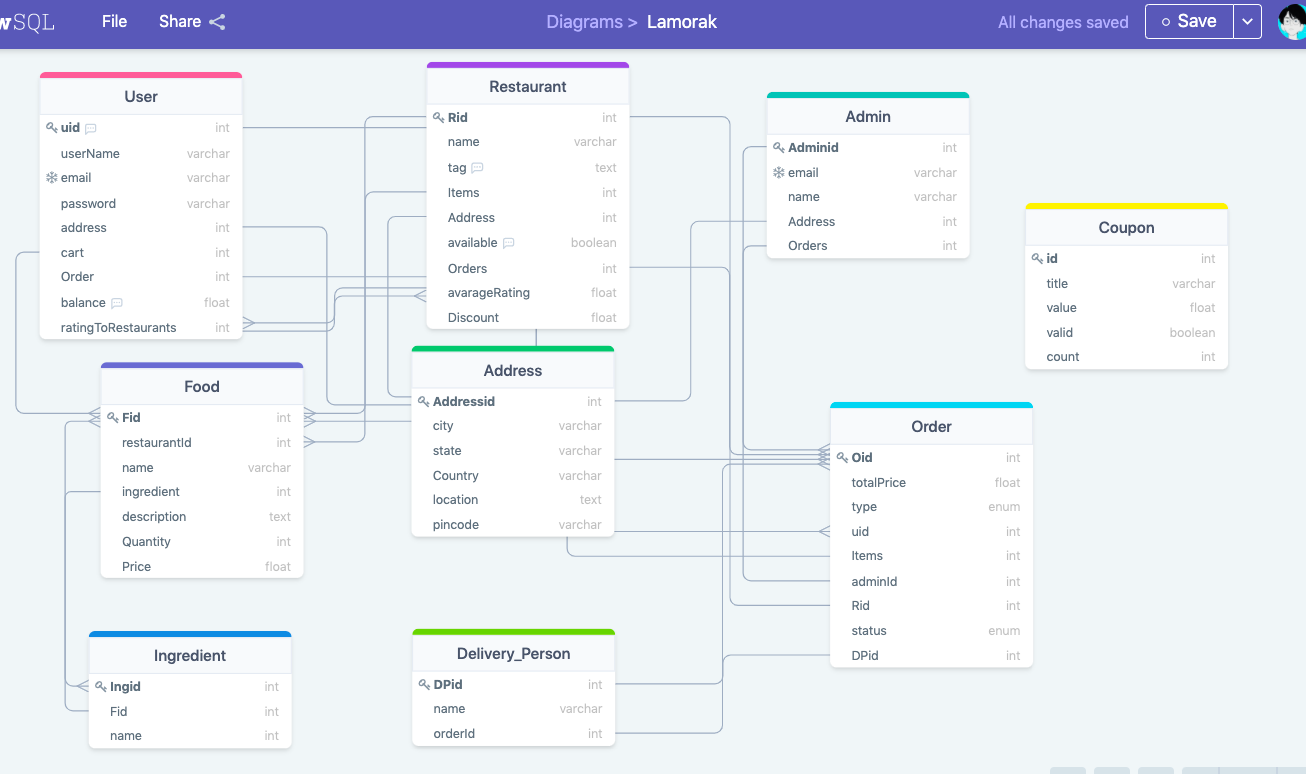
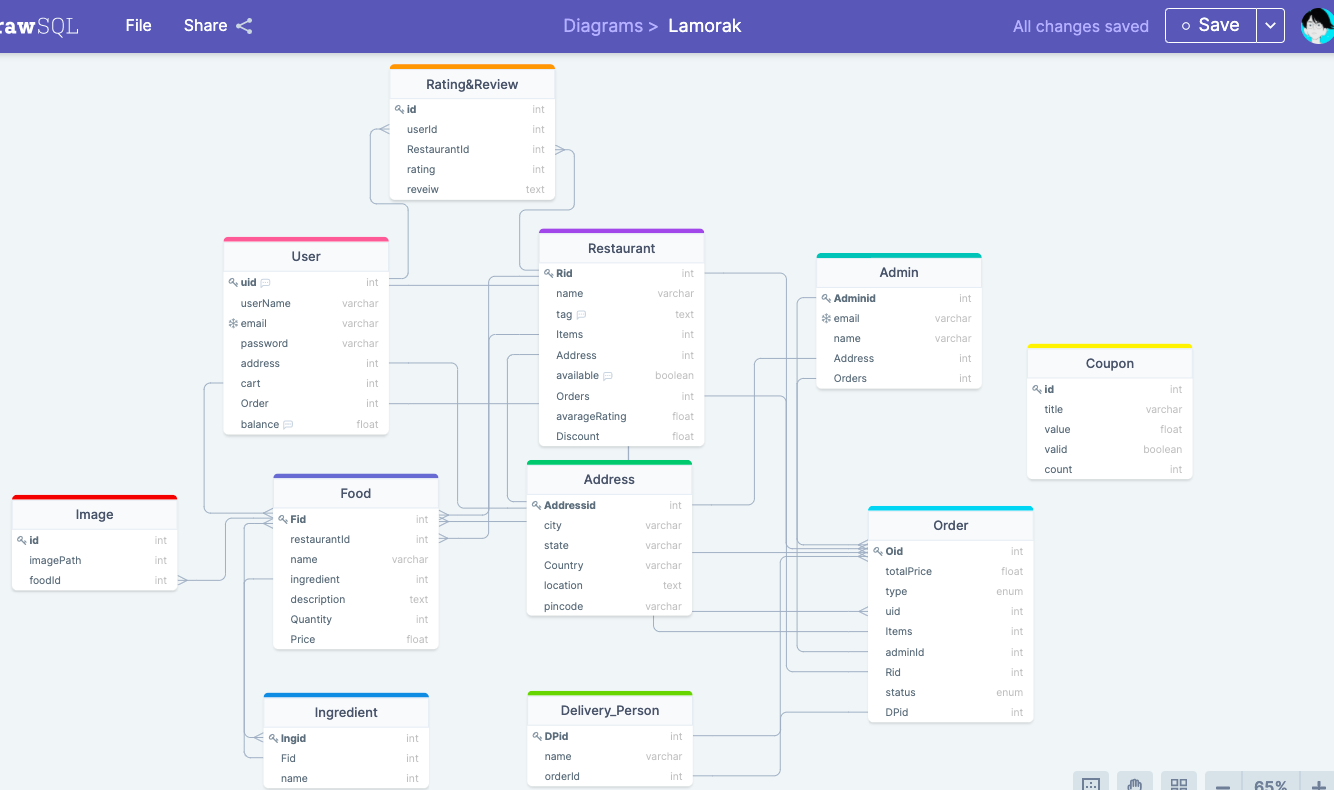
:package: Dish images & reviews

diff --git a/src/migration/1623419280160-finalDB.ts b/src/migration/1623419280160-finalDB.ts
@@ -1,15 +1,16 @@
 import {MigrationInterface, QueryRunner} from "typeorm";
 
-export class DBRatingDiscount1623325314182 implements MigrationInterface {
-    name = 'DBRatingDiscount1623325314182'
+export class finalDB1623419280160 implements MigrationInterface {
+    name = 'finalDB1623419280160'
 
     public async up(queryRunner: QueryRunner): Promise<void> {
         await queryRunner.query("CREATE TABLE `address` (`Addressid` varchar(36) NOT NULL, `city` text NOT NULL, `state` text NOT NULL, `Country` text NOT NULL, `location` text NOT NULL, `pincode` text NOT NULL, `phone` varchar(9) NULL, PRIMARY KEY (`Addressid`)) ENGINE=InnoDB");
         await queryRunner.query("CREATE TABLE `delivery__person` (`DPid` varchar(36) NOT NULL, `name` text NOT NULL, `available` tinyint NOT NULL DEFAULT 1, `addressAddressid` varchar(36) NULL, UNIQUE INDEX `REL_d65d42e963f8429d86825db38a` (`addressAddressid`), PRIMARY KEY (`DPid`)) ENGINE=InnoDB");
         await queryRunner.query("CREATE TABLE `ingredient` (`Ingid` varchar(36) NOT NULL, `name` text NOT NULL, PRIMARY KEY (`Ingid`)) ENGINE=InnoDB");
         await queryRunner.query("CREATE TABLE `food_ingredient` (`FoodId` varchar(255) NOT NULL, `IngredientId` varchar(255) NOT NULL, PRIMARY KEY (`FoodId`, `IngredientId`)) ENGINE=InnoDB");
+        await queryRunner.query("CREATE TABLE `image` (`id` varchar(36) NOT NULL, `imagePath` text NOT NULL, `foodId` varchar(255) NOT NULL, PRIMARY KEY (`id`)) ENGINE=InnoDB");
         await queryRunner.query("CREATE TABLE `user` (`uid` varchar(36) NOT NULL, `email` varchar(150) NOT NULL, `userName` text NOT NULL, `password` text NOT NULL, `balance` int NOT NULL DEFAULT '0', `addressAddressid` varchar(36) NULL, UNIQUE INDEX `IDX_e12875dfb3b1d92d7d7c5377e2` (`email`), UNIQUE INDEX `REL_703e68a3d29a874f160ac3797b` (`addressAddressid`), PRIMARY KEY (`uid`)) ENGINE=InnoDB");
-        await queryRunner.query("CREATE TABLE `rating` (`userId` varchar(255) NOT NULL, `RestaurantId` varchar(255) NOT NULL, `rating` float NOT NULL DEFAULT '0', PRIMARY KEY (`userId`, `RestaurantId`)) ENGINE=InnoDB");
+        await queryRunner.query("CREATE TABLE `rating` (`userId` varchar(255) NOT NULL, `RestaurantId` varchar(255) NOT NULL, `rating` float NOT NULL DEFAULT '0', `review` text NULL, PRIMARY KEY (`userId`, `RestaurantId`)) ENGINE=InnoDB");
         await queryRunner.query("CREATE TABLE `restaurant` (`Rid` varchar(36) NOT NULL, `name` text NOT NULL, `tag` text NOT NULL, `available` tinyint NOT NULL DEFAULT 1, `discount` float NULL, `totalRating` float NOT NULL DEFAULT '0', `addressAddressid` varchar(36) NULL, UNIQUE INDEX `REL_4642c5775e0de2541be48c84c8` (`addressAddressid`), PRIMARY KEY (`Rid`)) ENGINE=InnoDB");
         await queryRunner.query("CREATE TABLE `food` (`Fid` varchar(36) NOT NULL, `name` text NOT NULL, `description` text NOT NULL, `quantity` int NOT NULL DEFAULT '1', `price` float NOT NULL, `available` tinyint NOT NULL DEFAULT 1, `restaurantId` varchar(255) NOT NULL, `userId` varchar(255) NULL, `orderOid` int NULL, PRIMARY KEY (`Fid`)) ENGINE=InnoDB");
         await queryRunner.query("CREATE TABLE `order` (`Oid` int NOT NULL AUTO_INCREMENT, `totalPrice` float NOT NULL DEFAULT '0', `type` enum ('COD', 'NET_BANKING') NOT NULL DEFAULT 'COD', `status` enum ('PLACED', 'PAYED', 'ON_TRANSPORT', 'DELIVERED', 'CANCELLED') NOT NULL DEFAULT 'PLACED', `uid` varchar(255) NOT NULL, `adminId` varchar(255) NOT NULL, `DPId` varchar(255) NOT NULL, PRIMARY KEY (`Oid`)) ENGINE=InnoDB");
@@ -26,10 +27,12 @@ export class DBRatingDiscount1623325314182 implements MigrationInterface {
         await queryRunner.query("ALTER TABLE `Lamorak`.`rating` DROP FOREIGN KEY `ratingRestaurant`");
         await queryRunner.query("ALTER TABLE `Lamorak`.`food` DROP FOREIGN KEY `FK_35d14f4d6fd4c47ae086fad66f4`");
         await queryRunner.query("ALTER TABLE `Lamorak`.`food_ingredient` DROP FOREIGN KEY `FK_b2786654cafd09256c540749b9a`");
+        await queryRunner.query("ALTER TABLE `Lamorak`.`image` DROP FOREIGN KEY `ImageForFood`");
         await queryRunner.query("ALTER TABLE `Lamorak`.`order` DROP FOREIGN KEY `FK_e1e13450f9c5ff21e855254ac9a`");
         await queryRunner.query("ALTER TABLE `delivery__person` ADD CONSTRAINT `FK_d65d42e963f8429d86825db38a1` FOREIGN KEY (`addressAddressid`) REFERENCES `address`(`Addressid`) ON DELETE NO ACTION ON UPDATE NO ACTION");
         await queryRunner.query("ALTER TABLE `food_ingredient` ADD CONSTRAINT `FK_b2786654cafd09256c540749b9a` FOREIGN KEY (`FoodId`) REFERENCES `food`(`Fid`) ON DELETE NO ACTION ON UPDATE NO ACTION");
         await queryRunner.query("ALTER TABLE `food_ingredient` ADD CONSTRAINT `FK_b335b1a8e5221d9f0d79dae5f42` FOREIGN KEY (`IngredientId`) REFERENCES `ingredient`(`Ingid`) ON DELETE NO ACTION ON UPDATE NO ACTION");
+        await queryRunner.query("ALTER TABLE `image` ADD CONSTRAINT `FK_9dd0f874c4419189390ab2da55a` FOREIGN KEY (`foodId`) REFERENCES `food`(`Fid`) ON DELETE NO ACTION ON UPDATE NO ACTION");
         await queryRunner.query("ALTER TABLE `user` ADD CONSTRAINT `FK_703e68a3d29a874f160ac3797be` FOREIGN KEY (`addressAddressid`) REFERENCES `address`(`Addressid`) ON DELETE NO ACTION ON UPDATE NO ACTION");
         await queryRunner.query("ALTER TABLE `rating` ADD CONSTRAINT `FK_a6c53dfc89ba3188b389ef29a62` FOREIGN KEY (`userId`) REFERENCES `user`(`uid`) ON DELETE NO ACTION ON UPDATE NO ACTION");
         await queryRunner.query("ALTER TABLE `rating` ADD CONSTRAINT `FK_99bc6c32c7a46ee3e0bab8da24d` FOREIGN KEY (`RestaurantId`) REFERENCES `restaurant`(`Rid`) ON DELETE NO ACTION ON UPDATE NO ACTION");
@@ -55,10 +58,12 @@ export class DBRatingDiscount1623325314182 implements MigrationInterface {
         await queryRunner.query("ALTER TABLE `rating` DROP FOREIGN KEY `FK_99bc6c32c7a46ee3e0bab8da24d`");
         await queryRunner.query("ALTER TABLE `rating` DROP FOREIGN KEY `FK_a6c53dfc89ba3188b389ef29a62`");
         await queryRunner.query("ALTER TABLE `user` DROP FOREIGN KEY `FK_703e68a3d29a874f160ac3797be`");
+        await queryRunner.query("ALTER TABLE `image` DROP FOREIGN KEY `FK_9dd0f874c4419189390ab2da55a`");
         await queryRunner.query("ALTER TABLE `food_ingredient` DROP FOREIGN KEY `FK_b335b1a8e5221d9f0d79dae5f42`");
         await queryRunner.query("ALTER TABLE `food_ingredient` DROP FOREIGN KEY `FK_b2786654cafd09256c540749b9a`");
         await queryRunner.query("ALTER TABLE `delivery__person` DROP FOREIGN KEY `FK_d65d42e963f8429d86825db38a1`");
         await queryRunner.query("ALTER TABLE `Lamorak`.`order` ADD CONSTRAINT `FK_e1e13450f9c5ff21e855254ac9a` FOREIGN KEY (`adminId`) REFERENCES `admin`(`Adminid`) ON DELETE NO ACTION ON UPDATE NO ACTION");
+        await queryRunner.query("ALTER TABLE `Lamorak`.`image` ADD CONSTRAINT `ImageForFood` FOREIGN KEY (`foodId`) REFERENCES `food`(`Fid`) ON DELETE RESTRICT ON UPDATE RESTRICT");
         await queryRunner.query("ALTER TABLE `Lamorak`.`food_ingredient` ADD CONSTRAINT `FK_b2786654cafd09256c540749b9a` FOREIGN KEY (`FoodId`) REFERENCES `food`(`Fid`) ON DELETE NO ACTION ON UPDATE NO ACTION");
         await queryRunner.query("ALTER TABLE `Lamorak`.`food` ADD CONSTRAINT `FK_35d14f4d6fd4c47ae086fad66f4` FOREIGN KEY (`restaurantRid`) REFERENCES `restaurant`(`Rid`) ON DELETE NO ACTION ON UPDATE NO ACTION");
         await queryRunner.query("ALTER TABLE `Lamorak`.`rating` ADD CONSTRAINT `ratingRestaurant` FOREIGN KEY (`RestaurantId`) REFERENCES `restaurant`(`Rid`) ON DELETE RESTRICT ON UPDATE RESTRICT");
@@ -83,6 +88,7 @@ export class DBRatingDiscount1623325314182 implements MigrationInterface {
         await queryRunner.query("DROP INDEX `REL_703e68a3d29a874f160ac3797b` ON `user`");
         await queryRunner.query("DROP INDEX `IDX_e12875dfb3b1d92d7d7c5377e2` ON `user`");
         await queryRunner.query("DROP TABLE `user`");
+        await queryRunner.query("DROP TABLE `image`");
         await queryRunner.query("DROP TABLE `food_ingredient`");
         await queryRunner.query("DROP TABLE `ingredient`");
         await queryRunner.query("DROP INDEX `REL_d65d42e963f8429d86825db38a` ON `delivery__person`");

diff --git a/src/controllers/admin.controllers.ts b/src/controllers/admin.controllers.ts
@@ -17,10 +17,15 @@ import {
 import { queryAllFoodsAlongWithIngredients } from "../ControllerUtils/FoodIngredientUtils";
 import { makeItemsChange } from "../ControllerUtils/FoodUtils";
 import { Order, OrderStatus } from "../entities/Order";
-import { ControlOrder, ViewOrderAssigned } from "../ControllerUtils/adminUtils";
+import {
+  ControlOrder,
+  uploadImagesForFood,
+  ViewOrderAssigned,
+} from "../ControllerUtils/adminUtils";
 import { Delivery_Person } from "../entities/Delivery_Person";
 import { Coupon } from "../entities/Coupon";
 import { updateCoupon } from "../ControllerUtils/couponUtils";
+import { Image } from "../entities/Image";
 
 const signToken = (id: string) => {
   return JWT.sign(
@@ -129,7 +134,7 @@ export default {
         res.status(200).json({ address, restaurant });
       });
   },
-  addDish: async (req: Request, res: Response) => {
+  addDish: async (req: any, res: Response) => {
     const { restaurantId } = req.params;
 
     const {
@@ -144,27 +149,40 @@ export default {
       price: number;
     } = req.body;
 
-    const restaurant = await Restaurant.findOne(restaurantId);
+    try {
+      const restaurant = await Restaurant.findOne(restaurantId);
 
-    if (restaurant) {
-      const food = await Food.create({
-        name,
-        description,
-        quantity,
-        price,
-        restaurantId,
-        IngredientConnection: [],
-        userId: null,
-        orderOid: null,
-      }).save();
-      // food.restaurant = restaurant
-      // await food.save()
+      if (restaurant) {
+        const food = await Food.create({
+          name,
+          description,
+          quantity,
+          price,
+          restaurantId,
+          // IngredientConnection: [],
+          userId: null,
+          orderOid: null,
+          // images
+        }).save();
+        // food.restaurant = restaurant
+        // await food.save()
 
-      food.restaurant = restaurant;
+        let images: Image[] = [];
+        if (req.files) {
+          images = await uploadImagesForFood(req, food);
+        }
 
-      res.status(200).json({ food, restaurant });
-    } else {
-      res.status(500).json({ msg: "Internal Server Error" });
+        food.restaurant = restaurant;
+        await food.save();
+
+        res.status(200).json({ food, restaurant, images });
+      } else {
+        res.status(500).json({ msg: "Internal Server Error" });
+      }
+    } catch (err) {
+      res
+        .status(200)
+        .json({ msg: "Either food is inserted or some error occured" });
     }
   },
   addIngredient: async (req: Request, res: Response) => {

diff --git a/src/ControllerUtils/adminUtils.ts b/src/ControllerUtils/adminUtils.ts
@@ -1,5 +1,84 @@
 import { getRepository } from "typeorm";
 import { Order, OrderStatus } from "../entities/Order";
+import fs from "fs";
+import { Image } from "../entities/Image";
+import { Food } from "../entities/Food";
+const uploadPath = "/uploads/dishes";
+import path from "path";
+
+export const uploadImagesForFood = async (req: any, food: Food) => {
+  let images: Image[] = [];
+  let fileName = new Date().getTime();
+  const files = req.files;
+  await files.forEach(
+    async (
+      file: {
+        mimetype: string;
+        buffer:
+          | string
+          | Uint8Array
+          | Uint8ClampedArray
+          | Uint16Array
+          | Uint32Array
+          | Int8Array
+          | Int16Array
+          | Int32Array
+          | BigUint64Array
+          | BigInt64Array
+          | Float32Array
+          | Float64Array
+          | DataView;
+      },
+      index: any
+    ) => {
+      try {
+        if (
+          !fs.existsSync(
+            path.normalize(`${__dirname}/../..${uploadPath}/${fileName}`)
+          )
+        ) {
+          fs.mkdirSync(
+            path.normalize(`${__dirname}/../..${uploadPath}/${fileName}`)
+          );
+        }
+        fs.writeFile(
+          path.normalize(
+            `${__dirname}/../..${uploadPath}/${fileName}/${fileName}${index}.${
+              file.mimetype.split("/")[1]
+            }`
+          ),
+          file.buffer,
+          (err) => {
+            if (err) {
+              console.log(err);
+              return;
+            }
+            console.log(
+              path.normalize(
+                `${__dirname}/../..${uploadPath}/${fileName}/${fileName}${index}.${
+                  file.mimetype.split("/")[1]
+                }`
+              )
+            );
+          }
+        );
+        const img = await Image.create({
+          imagePath: `${uploadPath}/${fileName}/${fileName}${index}.${
+            file.mimetype.split("/")[1]
+          }`,
+          food,
+        }).save();
+        images.push(img);
+      } catch (e) {
+        console.log(e);
+        console.log("Error in saving");
+        return;
+        // throw "Error in saving";
+      }
+    }
+  );
+  return images;
+};
 
 export const ViewOrderAssigned = async (adminId: string): Promise<Order[]> => {
   const order = await getRepository(Order)

diff --git a/src/ControllerUtils/userUtils.ts b/src/ControllerUtils/userUtils.ts
@@ -169,7 +169,8 @@ export const CancelOrder = async (orderId: string) => {
 export const RateRestaurant = async (
   userId: string,
   restaurantId: string,
-  rating: number
+  rating: number,
+  review?: string
 ) => {
   const ratingList = await Rating.findOne({
     where: { RestaurantId: restaurantId, userId },
@@ -177,7 +178,10 @@ export const RateRestaurant = async (
 
   if (ratingList) {
     ratingList.rating = rating;
-
+    ratingList.review = null;
+    if (review) {
+      ratingList.review = review;
+    }
     await ratingList.save();
   } else {
     const user = await User.findOne(userId);
@@ -190,6 +194,7 @@ export const RateRestaurant = async (
         rating,
         user,
         Restaurant: restaurant,
+        review: review ? review : null,
       }).save();
     } else {
       return undefined;

diff --git a/src/routes/admin.routes.ts b/src/routes/admin.routes.ts
@@ -2,6 +2,9 @@ import express from "express";
 const router = express.Router();
 import passport from "passport";
 import "../middlewares/isAuth";
+import multer from "multer";
+
+const upload = multer();
 
 const auth = passport.authenticate("jwt", { session: false });
 
@@ -26,6 +29,7 @@ router.post(
   "/createFood/:restaurantId",
   auth,
   isAdmin,
+  upload.array("photos", 4), // 4 images of the food Item
   adminController.addDish
 );
 router.post("/createIngredient", auth, isAdmin, adminController.addIngredient);

diff --git a/src/controllers/user.controllers.ts b/src/controllers/user.controllers.ts
@@ -336,11 +336,16 @@ export default {
     }
   },
   rateRestaurant: async (req: any, res: Response) => {
-    const { rating }: { rating: number } = req.body;
+    const {
+      rating,
+      review,
+    }: { rating: number; review: string | undefined } = req.body;
+
     const rateRestaurant = await RateRestaurant(
       req.user.uid,
       req.params.Rid,
-      rating
+      rating,
+      review
     );
     if (rateRestaurant) {
       res.status(200).json({ rateRestaurant });

diff --git a/src/entities/Food.ts b/src/entities/Food.ts
@@ -8,6 +8,7 @@ import {
   OneToMany,
 } from "typeorm";
 import { FoodIngredient } from "./FoodIngredient";
+import { Image } from "./Image";
 import { Order } from "./Order";
 import { Restaurant } from "./Restaurant";
 import { User } from "./User";
@@ -31,6 +32,9 @@ export class Food extends BaseEntity {
 
   @Column("boolean", { default: true })
   available: boolean;
+
+  @OneToMany(() => Image, (img) => img.food)
+  images: Image[];
 
   @Column("text")
   restaurantId: string;

diff --git a/src/entities/Image.ts b/src/entities/Image.ts
@@ -1,0 +1,24 @@
+import {
+  BaseEntity,
+  Entity,
+  Column,
+  PrimaryGeneratedColumn,
+  ManyToOne,
+  JoinColumn,
+} from "typeorm";
+import { Food } from "./Food";
+
+@Entity()
+export class Image extends BaseEntity {
+  @PrimaryGeneratedColumn("uuid")
+  id: string;
+
+  @Column("text")
+  imagePath: string;
+
+  @Column("text")
+  foodId: string;
+  @ManyToOne(() => Food, (item) => item.images)
+  @JoinColumn({ name: "foodId" })
+  food: Food;
+}

diff --git a/src/entities/Rating.ts b/src/entities/Rating.ts
@@ -21,6 +21,9 @@ export class Rating extends BaseEntity {
   @Column("float", { default: 0 })
   rating: number;
 
+  @Column("text", { nullable: true })
+  review: string | null;
+
   @ManyToOne(() => User, (usr) => usr.restaurantRatingConnection, {
     primary: true,
   })

diff --git a/README.md b/README.md
@@ -21,7 +21,7 @@ Live for Fooood!!
 - Add To Cart
 - Restaurant's Discounts
 - Order Dishes
-- Rate Restaurants
+- Rate and Give Restaurant's Reviews
 - Same City Delivery Person/Boy
 - Guided by Admin
 - Cancel Order
@@ -31,7 +31,7 @@ Live for Fooood!!
 ## DB Migrate
 
 ```sh
-npx ts-node ./node_modules/.bin/typeorm migration:generate -n DBUpdate
+npx ts-node ./node_modules/.bin/typeorm migration:generate -n finalDB
 ```
 
 ## ER Diagram
@@ -44,13 +44,13 @@ https://www.getpostman.com/collections/fc87e3353fa60710154b
 
 Full Postman Routes (Which are Tested Till Now):
 
-Routes Documentation:
+Routes Documentation: (Some Admin Routes are not mentioned here)
 
 https://documenter.getpostman.com/view/8802598/TzY4gFne
 
 #### Notes
 
-- Index "city" field in Address Entity to fetch rows easily
+- Index "city, Addressid" field in Address Entity to fetch rows easily
 
 ## To Run It Locally
 
